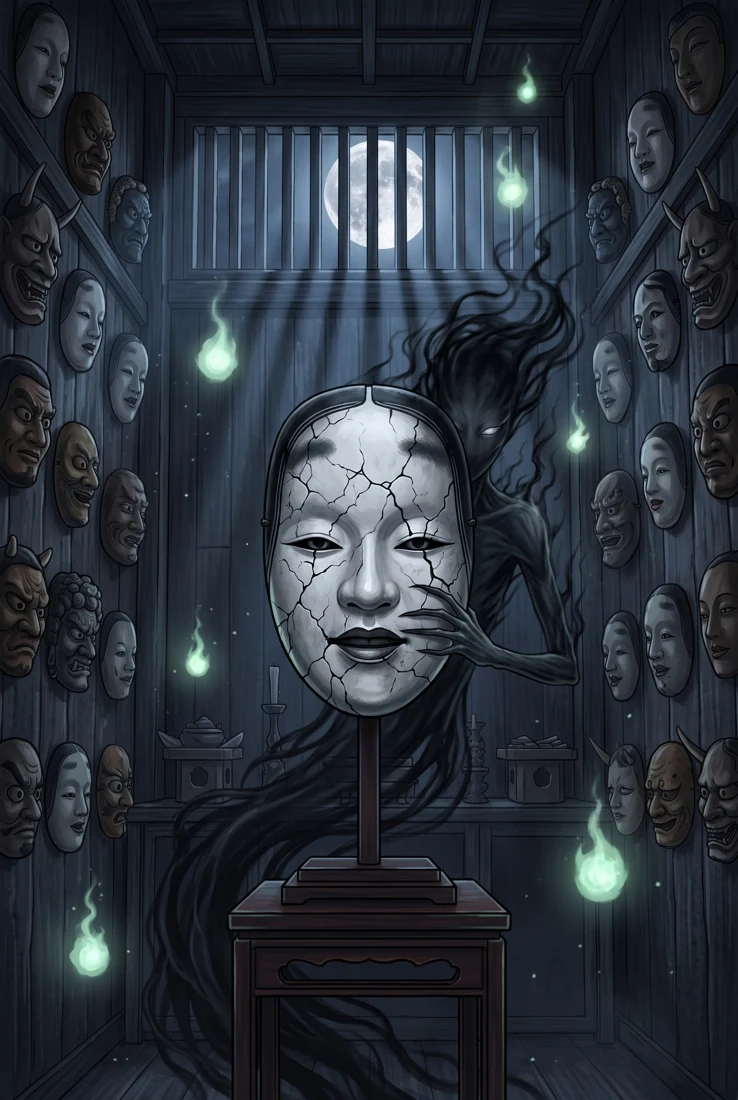
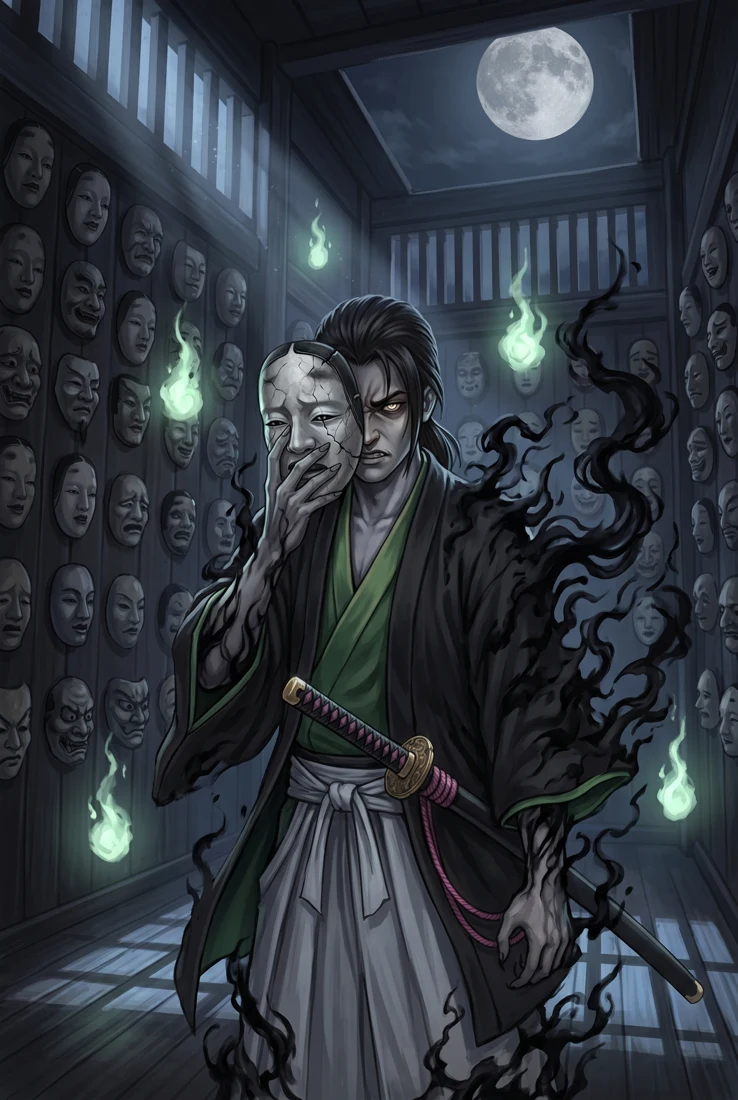
ONI: the ronin's other face, seven shadows of the same ronin

diff --git a/oni/index.html b/oni/index.html
@@ -8,7 +8,7 @@
 <link rel="icon" href="../favicon.svg" type="image/svg+xml">
 <meta property="og:type" content="website">
 <meta property="og:title" content="ONI · Seven Sins">
-<meta property="og:description" content="Seven demons on Solana, the rivals of RONIN. Draw one at random, or buy the one you want from a holder.">
+<meta property="og:description" content="The other face of RONIN: seven sins, seven shadows of the same ronin, on Solana. Draw one at random, or buy the one you want from a holder.">
 <meta property="og:image" content="https://studioamr.github.io/hakki/og-oni.jpg">
 <meta property="og:url" content="https://studioamr.github.io/hakki/oni/">
 <meta name="twitter:card" content="summary_large_image">
@@ -16,7 +16,7 @@
 <link rel="preconnect" href="https://fonts.googleapis.com">
 <link rel="preconnect" href="https://fonts.gstatic.com" crossorigin>
 <link href="https://fonts.googleapis.com/css2?family=Archivo:ital,wght@0,400;0,600;0,800;0,900;1,800&family=Silkscreen&family=Shippori+Mincho:wght@600;800&family=Old+Standard+TT&display=swap" rel="stylesheet">
-<link rel="stylesheet" href="../styles.css?v=1791040316">
+<link rel="stylesheet" href="../styles.css?v=1791080572">
 </head>
 <body>
 
@@ -29,11 +29,11 @@
   <canvas id="skyCv"></canvas>
   <div class="in">
     <div class="peace">SIN</div>
-    <div class="mantra px"><span>SEVEN SINS</span><span>SEVEN DEMONS</span><span>ONE MOON</span></div>
+    <div class="mantra px"><span>SEVEN SINS</span><span>ONE RONIN</span><span>HIS OTHER FACE</span></div>
     <svg class="sun" id="sun" viewBox="-100 -100 200 200" aria-hidden="true"></svg>
   </div>
   <div class="sky-foot"><div class="wrap">
-    <div class="tag"><b>ONI</b> <span class="jp">鬼</span><small>seven sins</small></div>
+    <div class="tag"><b>ONI</b> <span class="jp">鬼</span><small>his other face</small></div>
   </div></div>
 </header>
 
@@ -64,7 +64,7 @@
   <div class="tz-copy">
     <div class="eyebrow jp">月の籤 · draw</div>
     <h2>Draw your demon.</h2>
-    <p>One draw, one price. The moon turns, a sin chooses you, and one demon follows you home.</p>
+    <p>One draw, one price. The moon turns, a sin chooses you, and one of his shadows follows you home.</p>
     <a class="btn tz-go" href="draw.html">Enter the draw →</a>
   </div>
   <a class="tz-deck" href="draw.html" aria-label="Go to the draw"><i></i><i></i><i></i><i></i></a>
@@ -78,14 +78,14 @@
 </div></section>
 
 <section class="falls" id="subscribe">
-  <div class="fl-bg" id="flBg"><img src="../img/escenas/spec-gathering.webp" alt="The seven shadow specters gathered under the full moon"></div>
+  <div class="fl-bg" id="flBg"><img src="../img/escenas/spec-gathering.webp" alt="The ronin surrounded by his seven shadows under the full moon"></div>
   <canvas class="fl-fx" id="flFx"></canvas>
   <div class="fl-fog"></div>
   <div class="wrap fl-in">
     <div class="fl-card">
       <div class="eyebrow jp">百鬼夜行 · night parade</div>
       <h2>Join the night parade.</h2>
-      <p>Before the mint opens, the seven gather under the moon. Leave your email and we'll call you once, when it's time.</p>
+      <p>Before the mint opens, his seven shadows gather under the moon. Leave your email and we'll call you once, when it's time.</p>
       <form class="sub-form" id="subForm" novalidate>
         <input type="email" name="email" placeholder="you@email.com" autocomplete="email" required aria-label="Email">
         <button class="btn" type="submit">Subscribe</button>
@@ -102,7 +102,7 @@
   </div>
 </div></footer>
 
-<script src="../config.js?v=1791040316"></script>
-<script src="../app.js?v=1791040316"></script>
+<script src="../config.js?v=1791080572"></script>
+<script src="../app.js?v=1791080572"></script>
 </body>
 </html>

diff --git a/app.js b/app.js
@@ -56,15 +56,15 @@ const RONIN_NFTS=[
   {f:'summit',t:'The Summit',jt:'頂',r:'Legendary',e:28,p:4.8,fx:'snow',bg:'above-clouds',d:'The top of the mountain, the wind, and no one to tell. He climbed it for himself.'},
   {f:'winter-wind',t:'Winter Wind',jt:'冬の風',r:'Common',e:200,p:0.6,fx:'snow',bg:'stillness',d:'Sun on the snow, flowers pushing through. Winter never wins for good.'},
 ];
-/* the night world: seven shadow specters, one per deadly sin. Every fall of the ronin had one of these names. */
+/* the night world: the ronin's other face. Seven sins, seven shadows of the same man; every fall of the ronin had one of these names. */
 const ONI_NFTS=[
-  {f:'spec-pride',t:'Pride',jt:'傲慢',r:'Legendary',e:30,p:5,wide:1,wpos:'50% 24%',fx:'clouds',bg:'oni-castle',d:'A shadow with a cracked crown on the highest roof. It looks down on everyone and has never once looked up.'},
-  {f:'spec-wrath',t:'Wrath',jt:'憤怒',r:'Legendary',e:33,p:4.5,fx:'embers',bg:'oni-hellgate',d:'Smoke that never stops smouldering. Every insult it ever heard is still burning at its edges.'},
-  {f:'spec-lust',t:'Lust',jt:'色欲',r:'Epic',e:100,p:1.8,fx:'petals',bg:'oni-lake',d:'A shadow waits on the bridge behind a fan. Whoever crosses toward it never reaches the other side.'},
-  {f:'spec-greed',t:'Greed',jt:'強欲',r:'Epic',e:100,p:1.7,fx:'dust',bg:'oni-hellgate',d:'Long fingers of smoke over a pile of gold, still counting. Enough is a word it never learned.'},
-  {f:'spec-envy',t:'Envy',jt:'嫉妬',r:'Rare',e:150,p:1,fx:'dust',bg:'oni-lake',d:'It has no face of its own, only the masks of everyone it wanted to be.'},
-  {f:'spec-gluttony',t:'Gluttony',jt:'暴食',r:'Rare',e:150,p:0.9,fx:'embers',bg:'oni-hellgate',d:'The feast never ends and the shadow never fills. The hunger is the only thing it really eats.'},
-  {f:'spec-sloth',t:'Sloth',jt:'怠惰',r:'Common',e:200,p:0.5,fx:'clouds',bg:'oni-castle',d:'It will start tomorrow. It has been saying so for a thousand years, melting slowly off the roof.'},
+  {f:'spec-pride',t:'Pride',jt:'傲慢',r:'Legendary',e:30,p:5,wide:1,wpos:'50% 24%',fx:'clouds',bg:'oni-castle',d:'The ronin on the highest roof with a crown he swore he never wanted. The day he forgets where he came from, this is who he becomes.'},
+  {f:'spec-wrath',t:'Wrath',jt:'憤怒',r:'Legendary',e:33,p:4.5,fx:'embers',bg:'oni-hellgate',d:'Every insult he ever swallowed, still burning. His own hand on the sword, and nothing left to protect.'},
+  {f:'spec-lust',t:'Lust',jt:'色欲',r:'Epic',e:100,p:1.8,fx:'petals',bg:'oni-lake',d:'The bridge he keeps crossing toward what he wants. He never reaches the other side.'},
+  {f:'spec-greed',t:'Greed',jt:'強欲',r:'Epic',e:100,p:1.7,fx:'dust',bg:'oni-hellgate',d:'Kneeling over gold in the dark, still counting. The ronin who forgot that enough was the whole point.'},
+  {f:'spec-envy',t:'Envy',jt:'嫉妬',r:'Rare',e:150,p:1,fx:'dust',bg:'oni-lake',d:'A wall of masks, every face he wanted instead of his own. Behind the cracked one, it is still him.'},
+  {f:'spec-gluttony',t:'Gluttony',jt:'暴食',r:'Rare',e:150,p:0.9,fx:'embers',bg:'oni-hellgate',d:'The feast never ends and he never fills. The hunger is the only thing he really eats.'},
+  {f:'spec-sloth',t:'Sloth',jt:'怠惰',r:'Common',e:200,p:0.5,fx:'clouds',bg:'oni-castle',d:'He will start tomorrow. The sword rusts under the vines while his shadow melts off the roof.'},
 ];
 const NFTS=ONI?ONI_NFTS:RONIN_NFTS;
 NFTS.forEach((n,i)=>n.ch=ROMAN(i+1));

diff --git a/oni/profile.html b/oni/profile.html
@@ -8,7 +8,7 @@
 <link rel="icon" href="../favicon.svg" type="image/svg+xml">
 <meta property="og:type" content="website">
 <meta property="og:title" content="ONI · Profile">
-<meta property="og:description" content="Seven demons on Solana, the rivals of RONIN. Draw one at random, or buy the one you want from a holder.">
+<meta property="og:description" content="The other face of RONIN: seven sins, seven shadows of the same ronin, on Solana. Draw one at random, or buy the one you want from a holder.">
 <meta property="og:image" content="https://studioamr.github.io/hakki/og-oni.jpg">
 <meta property="og:url" content="https://studioamr.github.io/hakki/oni/">
 <meta name="twitter:card" content="summary_large_image">
@@ -16,7 +16,7 @@
 <link rel="preconnect" href="https://fonts.googleapis.com">
 <link rel="preconnect" href="https://fonts.gstatic.com" crossorigin>
 <link href="https://fonts.googleapis.com/css2?family=Archivo:ital,wght@0,400;0,600;0,800;0,900;1,800&family=Silkscreen&family=Shippori+Mincho:wght@600;800&family=Old+Standard+TT&display=swap" rel="stylesheet">
-<link rel="stylesheet" href="../styles.css?v=1791040316">
+<link rel="stylesheet" href="../styles.css?v=1791080572">
 </head>
 <body class="dark-top pf-page">
 
@@ -34,7 +34,7 @@
   </div>
 </div></footer>
 
-<script src="../config.js?v=1791040316"></script>
-<script src="../app.js?v=1791040316"></script>
+<script src="../config.js?v=1791080572"></script>
+<script src="../app.js?v=1791080572"></script>
 </body>
 </html>

diff --git a/oni/draw.html b/oni/draw.html
@@ -8,7 +8,7 @@
 <link rel="icon" href="../favicon.svg" type="image/svg+xml">
 <meta property="og:type" content="website">
 <meta property="og:title" content="ONI · Draw">
-<meta property="og:description" content="Seven demons on Solana, the rivals of RONIN. Draw one at random, or buy the one you want from a holder.">
+<meta property="og:description" content="The other face of RONIN: seven sins, seven shadows of the same ronin, on Solana. Draw one at random, or buy the one you want from a holder.">
 <meta property="og:image" content="https://studioamr.github.io/hakki/og-oni.jpg">
 <meta property="og:url" content="https://studioamr.github.io/hakki/oni/">
 <meta name="twitter:card" content="summary_large_image">
@@ -16,7 +16,7 @@
 <link rel="preconnect" href="https://fonts.googleapis.com">
 <link rel="preconnect" href="https://fonts.gstatic.com" crossorigin>
 <link href="https://fonts.googleapis.com/css2?family=Archivo:ital,wght@0,400;0,600;0,800;0,900;1,800&family=Silkscreen&family=Shippori+Mincho:wght@600;800&family=Old+Standard+TT&display=swap" rel="stylesheet">
-<link rel="stylesheet" href="../styles.css?v=1791040316">
+<link rel="stylesheet" href="../styles.css?v=1791080572">
 </head>
 <body class="dark-top dw-body">
 
@@ -64,7 +64,7 @@
   </div>
 </div></footer>
 
-<script src="../config.js?v=1791040316"></script>
-<script src="../app.js?v=1791040316"></script>
+<script src="../config.js?v=1791080572"></script>
+<script src="../app.js?v=1791080572"></script>
 </body>
 </html>

diff --git a/oni/cards.html b/oni/cards.html
@@ -8,7 +8,7 @@
 <link rel="icon" href="../favicon.svg" type="image/svg+xml">
 <meta property="og:type" content="website">
 <meta property="og:title" content="ONI · All Cards">
-<meta property="og:description" content="Seven demons on Solana, the rivals of RONIN. Draw one at random, or buy the one you want from a holder.">
+<meta property="og:description" content="The other face of RONIN: seven sins, seven shadows of the same ronin, on Solana. Draw one at random, or buy the one you want from a holder.">
 <meta property="og:image" content="https://studioamr.github.io/hakki/og-oni.jpg">
 <meta property="og:url" content="https://studioamr.github.io/hakki/oni/">
 <meta name="twitter:card" content="summary_large_image">
@@ -16,7 +16,7 @@
 <link rel="preconnect" href="https://fonts.googleapis.com">
 <link rel="preconnect" href="https://fonts.gstatic.com" crossorigin>
 <link href="https://fonts.googleapis.com/css2?family=Archivo:ital,wght@0,400;0,600;0,800;0,900;1,800&family=Silkscreen&family=Shippori+Mincho:wght@600;800&family=Old+Standard+TT&display=swap" rel="stylesheet">
-<link rel="stylesheet" href="../styles.css?v=1791040316">
+<link rel="stylesheet" href="../styles.css?v=1791080572">
 </head>
 <body class="dark-top">
 
@@ -39,7 +39,7 @@
   </div>
 </div></footer>
 
-<script src="../config.js?v=1791040316"></script>
-<script src="../app.js?v=1791040316"></script>
+<script src="../config.js?v=1791080572"></script>
+<script src="../app.js?v=1791080572"></script>
 </body>
 </html>

diff --git a/draw.html b/draw.html
@@ -16,7 +16,7 @@
 <link rel="preconnect" href="https://fonts.googleapis.com">
 <link rel="preconnect" href="https://fonts.gstatic.com" crossorigin>
 <link href="https://fonts.googleapis.com/css2?family=Archivo:ital,wght@0,400;0,600;0,800;0,900;1,800&family=Silkscreen&family=Shippori+Mincho:wght@600;800&family=Old+Standard+TT&display=swap" rel="stylesheet">
-<link rel="stylesheet" href="styles.css?v=1791040316">
+<link rel="stylesheet" href="styles.css?v=1791080572">
 </head>
 <body class="dark-top dw-body">
 
@@ -64,7 +64,7 @@
   </div>
 </div></footer>
 
-<script src="config.js?v=1791040316"></script>
-<script src="app.js?v=1791040316"></script>
+<script src="config.js?v=1791080572"></script>
+<script src="app.js?v=1791080572"></script>
 </body>
 </html>

diff --git a/profile.html b/profile.html
@@ -16,7 +16,7 @@
 <link rel="preconnect" href="https://fonts.googleapis.com">
 <link rel="preconnect" href="https://fonts.gstatic.com" crossorigin>
 <link href="https://fonts.googleapis.com/css2?family=Archivo:ital,wght@0,400;0,600;0,800;0,900;1,800&family=Silkscreen&family=Shippori+Mincho:wght@600;800&family=Old+Standard+TT&display=swap" rel="stylesheet">
-<link rel="stylesheet" href="styles.css?v=1791040316">
+<link rel="stylesheet" href="styles.css?v=1791080572">
 </head>
 <body class="dark-top pf-page">
 
@@ -34,7 +34,7 @@
   </div>
 </div></footer>
 
-<script src="config.js?v=1791040316"></script>
-<script src="app.js?v=1791040316"></script>
+<script src="config.js?v=1791080572"></script>
+<script src="app.js?v=1791080572"></script>
 </body>
 </html>

diff --git a/coin.html b/coin.html
@@ -16,7 +16,7 @@
 <link rel="preconnect" href="https://fonts.googleapis.com">
 <link rel="preconnect" href="https://fonts.gstatic.com" crossorigin>
 <link href="https://fonts.googleapis.com/css2?family=Archivo:ital,wght@0,400;0,600;0,800;0,900;1,800&family=Silkscreen&family=Shippori+Mincho:wght@600;800&family=Old+Standard+TT&display=swap" rel="stylesheet">
-<link rel="stylesheet" href="styles.css?v=1791040316">
+<link rel="stylesheet" href="styles.css?v=1791080572">
 </head>
 <body class="coin-page">
 
@@ -99,7 +99,7 @@
   </div>
 </div></footer>
 
-<script src="config.js?v=1791040316"></script>
-<script src="app.js?v=1791040316"></script>
+<script src="config.js?v=1791080572"></script>
+<script src="app.js?v=1791080572"></script>
 </body>
 </html>

diff --git a/cards.html b/cards.html
@@ -16,7 +16,7 @@
 <link rel="preconnect" href="https://fonts.googleapis.com">
 <link rel="preconnect" href="https://fonts.gstatic.com" crossorigin>
 <link href="https://fonts.googleapis.com/css2?family=Archivo:ital,wght@0,400;0,600;0,800;0,900;1,800&family=Silkscreen&family=Shippori+Mincho:wght@600;800&family=Old+Standard+TT&display=swap" rel="stylesheet">
-<link rel="stylesheet" href="styles.css?v=1791040316">
+<link rel="stylesheet" href="styles.css?v=1791080572">
 </head>
 <body class="dark-top">
 
@@ -39,7 +39,7 @@
   </div>
 </div></footer>
 
-<script src="config.js?v=1791040316"></script>
-<script src="app.js?v=1791040316"></script>
+<script src="config.js?v=1791080572"></script>
+<script src="app.js?v=1791080572"></script>
 </body>
 </html>

diff --git a/index.html b/index.html
@@ -16,7 +16,7 @@
 <link rel="preconnect" href="https://fonts.googleapis.com">
 <link rel="preconnect" href="https://fonts.gstatic.com" crossorigin>
 <link href="https://fonts.googleapis.com/css2?family=Archivo:ital,wght@0,400;0,600;0,800;0,900;1,800&family=Silkscreen&family=Shippori+Mincho:wght@600;800&family=Old+Standard+TT&display=swap" rel="stylesheet">
-<link rel="stylesheet" href="styles.css?v=1791040316">
+<link rel="stylesheet" href="styles.css?v=1791080572">
 </head>
 <body>
 
@@ -102,7 +102,7 @@
   </div>
 </div></footer>
 
-<script src="config.js?v=1791040316"></script>
-<script src="app.js?v=1791040316"></script>
+<script src="config.js?v=1791080572"></script>
+<script src="app.js?v=1791080572"></script>
 </body>
 </html>

diff --git a/make_oni.py b/make_oni.py
@@ -8,8 +8,8 @@ os.makedirs(os.path.join(R, "oni"), exist_ok=True)
 COMMON = [
     ('<html lang="en">', '<html lang="en" data-world="oni">'),
     ('<title>RONIN · No Master', '<title>ONI · Seven Sins'), ('content="RONIN · No Master"', 'content="ONI · Seven Sins"'), ('<title>RONIN', '<title>ONI'), ('content="RONIN', 'content="ONI'),
-    ('RONIN: a collection of ronin artworks', 'ONI: seven demons, one for each deadly sin,'),
-    ('A collection of ronin on Solana.', 'Seven demons on Solana, the rivals of RONIN.'),
+    ('RONIN: a collection of ronin artworks', 'ONI: the other face of the ronin. Seven sins, seven shadows of the same man,'),
+    ('A collection of ronin on Solana.', 'The other face of RONIN: seven sins, seven shadows of the same ronin, on Solana.'),
     ('studioamr.github.io/hakki/"', 'studioamr.github.io/hakki/oni/"'),
     ('content="#f2f0eb"', 'content="#07070d"'), ('hakki/og.jpg', 'hakki/og-oni.jpg'),
     ('href="favicon.svg"', 'href="../favicon.svg"'),
@@ -24,22 +24,22 @@ COMMON = [
 INDEX = [
     ('<div class="peace">PEACE</div>', '<div class="peace">SIN</div>'),
     ('<span>BE CONSISTENT</span><span>BE DISCIPLINED</span><span>BE OBSESSED</span>',
-     '<span>SEVEN SINS</span><span>SEVEN DEMONS</span><span>ONE MOON</span>'),
+     '<span>SEVEN SINS</span><span>ONE RONIN</span><span>HIS OTHER FACE</span>'),
     ('<div class="tag"><b>RONIN</b> <span class="jp">道</span><small>no master</small></div>',
-     '<div class="tag"><b>ONI</b> <span class="jp">鬼</span><small>seven sins</small></div>'),
+     '<div class="tag"><b>ONI</b> <span class="jp">鬼</span><small>his other face</small></div>'),
     ('Rather leave it to fate?', 'Rather let the moon decide?'),
     ('<div class="eyebrow jp">運試し · draw</div>', '<div class="eyebrow jp">月の籤 · draw</div>'),
     ('<h2>Draw your ronin.</h2>', '<h2>Draw your demon.</h2>'),
     ('One draw, one price. The deck spins, the path chooses, and one ronin walks out with you.',
-     'One draw, one price. The moon turns, a sin chooses you, and one demon follows you home.'),
+     'One draw, one price. The moon turns, a sin chooses you, and one of his shadows follows you home.'),
     ('<h2>Wear the path.</h2>', '<h2>Wear the sin.</h2>'),
     ("Spot a RONIN piece in the street: that's another ronin.", "Spot an ONI piece at night: that's another demon."),
     ('img/escenas/falls.webp" alt="A ronin meditating by a pond, facing a legendary waterfall"',
-     'img/escenas/spec-gathering.webp" alt="The seven shadow specters gathered under the full moon"'),
+     'img/escenas/spec-gathering.webp" alt="The ronin surrounded by his seven shadows under the full moon"'),
     ('<div class="eyebrow jp">静寂 · stillness</div>', '<div class="eyebrow jp">百鬼夜行 · night parade</div>'),
     ('<h2>Sit with the path.</h2>', '<h2>Join the night parade.</h2>'),
     ("Before the mint opens, the ronin waits by the falls. Leave your email and we'll call you once, when it's time.",
-     "Before the mint opens, the seven gather under the moon. Leave your email and we'll call you once, when it's time."),
+     "Before the mint opens, his seven shadows gather under the moon. Leave your email and we'll call you once, when it's time."),
 ]
 for page in ["index.html", "cards.html", "draw.html", "profile.html"]:
     s = open(os.path.join(R, page), encoding="utf-8").read()
